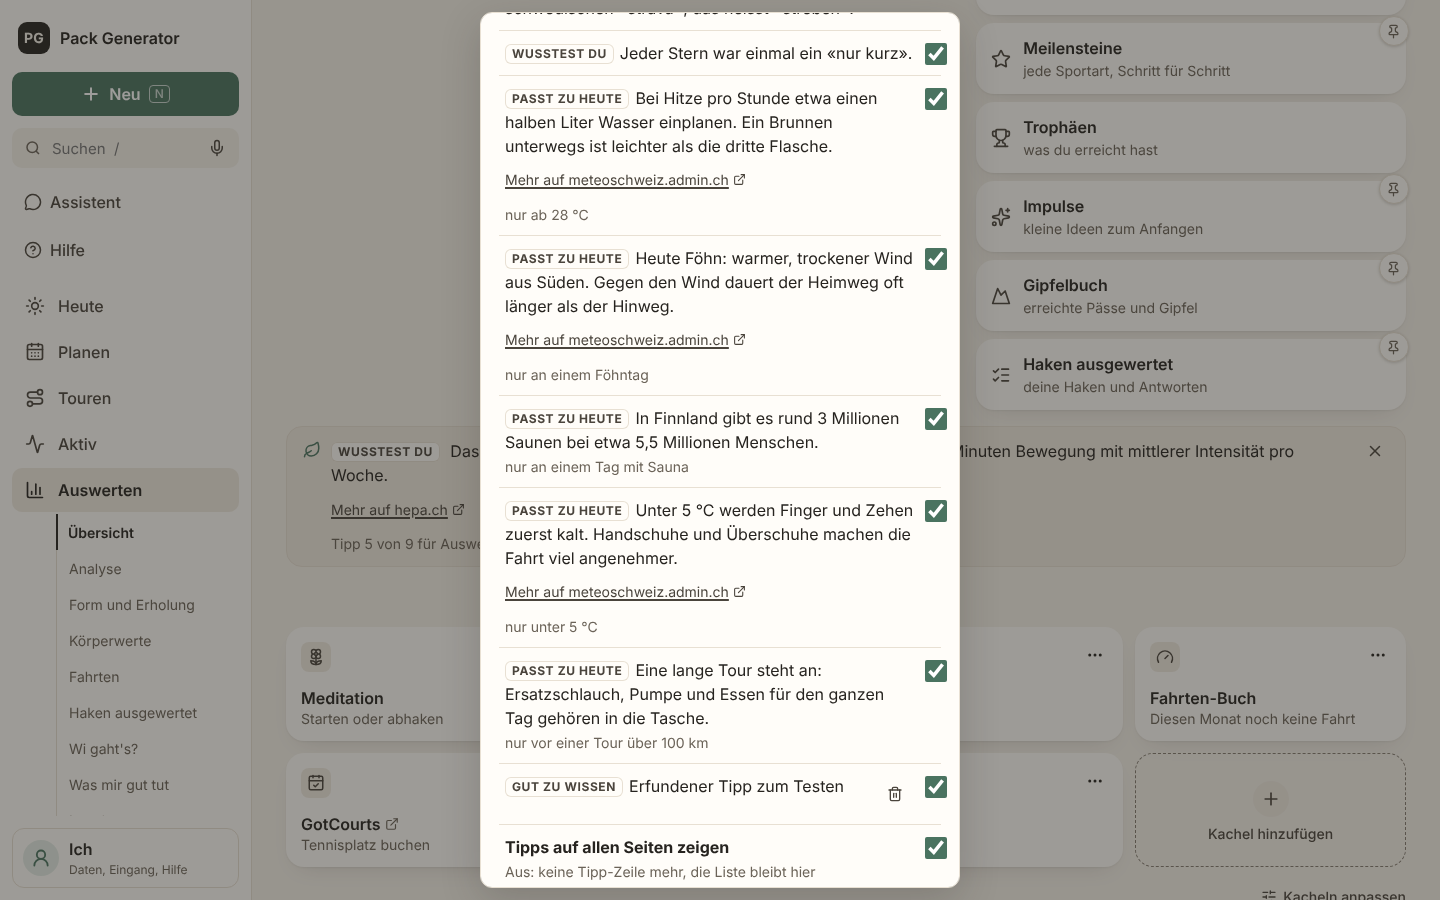
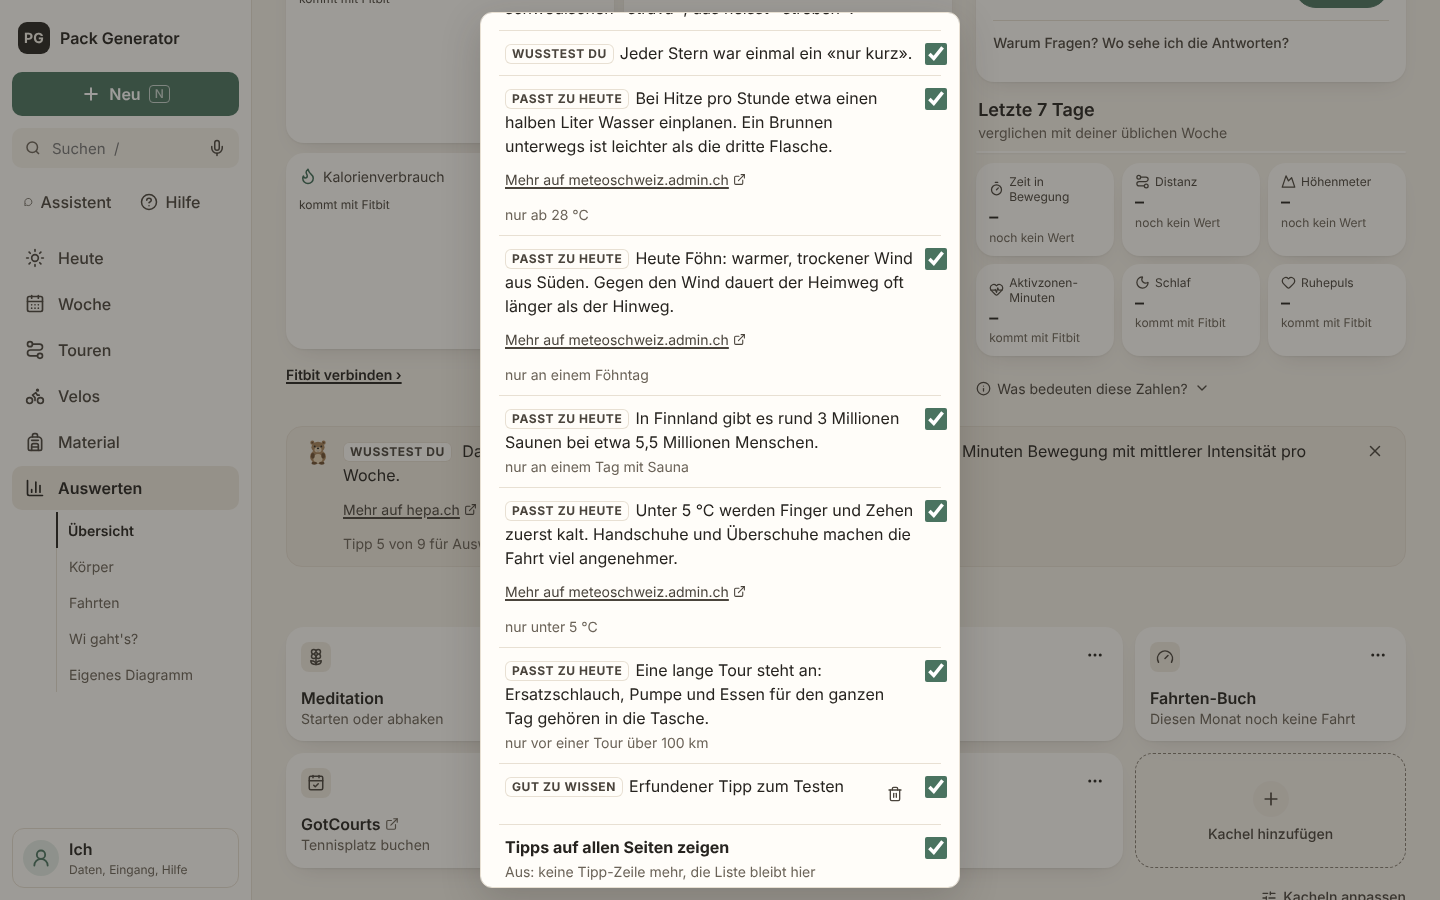
Hilfen 3b: Tipp-Zeile unter den Seitentiteln standardmässig aus, Schalter in Eigene Werte
Claude-Session: https://claude.ai/code/session_015AMNJ9eVfQsamTjq9WtRk8

diff --git a/src/lib/news/tipp-zeile-aus.js b/src/lib/news/tipp-zeile-aus.js
@@ -1,0 +1,24 @@
+// «Hilfen neu» 3b (Noah 22.11.2026 «1a 2a»): the tip line «Good to know» no longer stands under the page titles
+export default {
+  title: 'No tip line under the page titles',
+  lead: 'The pages start with their content. The tips are still there, at the end of a page and in «Tips for this page».',
+  points: [
+    { text: 'The tip line under the page titles is off; switch it on in Own values if you like it', go: { href: '#/me/werte', steps: [{ sel: '[data-own-line]' }], where: 'Me › Own values › Suggestions: «Tip line under the page title».' } },
+  ],
+  small: [],
+  test: [
+    'Open Me: the page starts with its content, no tip line under the title.',
+    'Open Me › Own values and switch on «Tip line under the page title»: the tip is back under the title.',
+    'Switch it off again: at the end of the page «Tips for this page ›» still opens the tips.',
+  ],
+  since: [],
+  de: {
+    'No tip line under the page titles': 'Keine Tipp-Zeile unter den Seitentiteln',
+    'The pages start with their content. The tips are still there, at the end of a page and in «Tips for this page».': 'Die Seiten beginnen mit ihrem Inhalt. Die Tipps gibt es weiter: am Seitenende und unter «Tipps für diese Seite».',
+    'The tip line under the page titles is off; switch it on in Own values if you like it': 'Die Tipp-Zeile unter den Seitentiteln ist aus; schalte sie unter «Eigene Werte» ein, wenn du sie magst',
+    'Me › Own values › Suggestions: «Tip line under the page title».': 'Ich › Eigene Werte › Vorschläge: «Tipp-Zeile unter dem Seitentitel».',
+    'Open Me: the page starts with its content, no tip line under the title.': 'Öffne Ich: die Seite beginnt mit ihrem Inhalt, keine Tipp-Zeile unter dem Titel.',
+    'Open Me › Own values and switch on «Tip line under the page title»: the tip is back under the title.': 'Öffne Ich › Eigene Werte und schalte «Tipp-Zeile unter dem Seitentitel» ein: der Tipp steht wieder unter dem Titel.',
+    'Switch it off again: at the end of the page «Tips for this page ›» still opens the tips.': 'Schalte sie wieder aus: am Seitenende öffnet «Tipps für diese Seite ›» weiter die Tipps.',
+  },
+};

diff --git a/src/pages/OwnValues.svelte b/src/pages/OwnValues.svelte
@@ -23,7 +23,7 @@
   import { sortBikes } from '../lib/bikes.js';
   import { localDay } from '../lib/localday.js';
   import { pageInfo } from '../lib/pageinfo/store.svelte.js';
-  import { setTipsOn, setKnowOn } from '../lib/pageinfo.js';
+  import { setTipsOn, setLineOn, setKnowOn } from '../lib/pageinfo.js';
   import VeloHead from '../lib/bikes/VeloHead.svelte';
   import { t, tn, num } from '../lib/i18n.svelte.js';
   import { Minus, Plus, Undo2, ChevronRight, Package, Bike, Database, Lightbulb, Wrench, Info, Activity, Pencil, BellRing, RotateCcw } from '@lucide/svelte';
@@ -170,7 +170,13 @@
       <ul class="ich-list">
         <li class="ew-row">
           <div class="ew-top">
-            <span class="ich-m"><b id="ew-tips">{t('Tips on all pages')}</b><small>{t('One tip a day under the page title. Off: no tip line any more.')}</small></span>
+            <span class="ich-m"><b id="ew-line">{t('Tip line under the page title')}</b><small>{t('One tip a day under the title of a page. Off: the tips stay in «Tips for this page» at the page end.')}</small></span>
+            <label class="ew-sw"><input type="checkbox" role="switch" data-own-line aria-labelledby="ew-line" checked={pi.info.lineOn} onchange={(e) => ((on) => pi.save((v) => setLineOn(v, on)))(e.currentTarget.checked)} /></label>
+          </div>
+        </li>
+        <li class="ew-row">
+          <div class="ew-top">
+            <span class="ich-m"><b id="ew-tips">{t('Tips on all pages')}</b><small>{t('Off: no tips at all, also not in «Tips for this page».')}</small></span>
             <label class="ew-sw"><input type="checkbox" role="switch" data-own-tips aria-labelledby="ew-tips" checked={pi.info.tipsOn} onchange={(e) => ((on) => pi.save((v) => setTipsOn(v, on)))(e.currentTarget.checked)} /></label>
           </div>
         </li>

diff --git a/tests/pageinfo.test.js b/tests/pageinfo.test.js
@@ -1,5 +1,5 @@
 import { describe, it, expect } from 'vitest';
-import { PAGES, TODAY_TIPS, contextOf, tripWxOn, farOf, setKnowOn, infoOf, allTips, tipOfDay, tipPlace, canRows, setTipsOn, setTip, hideToday, addTip, removeTip, setCan, canShown, tipLink, examplesOf, exampleNote } from '../src/lib/pageinfo.js';
+import { PAGES, TODAY_TIPS, contextOf, tripWxOn, farOf, setKnowOn, infoOf, allTips, tipOfDay, tipPlace, canRows, setTipsOn, setLineOn, setTip, hideToday, addTip, removeTip, setCan, canShown, tipLink, examplesOf, exampleNote } from '../src/lib/pageinfo.js';
 import DE from '../src/lib/i18n/de/index.js';
 
 // «Inhalte Flow» IF1–IF3 (Noah 14.10.2026, mockups approved 04:32): tip of the day and fold; the tiles «Next» are SK (sk tests).
@@ -43,8 +43,15 @@ describe('the tip of the day', () => {
     expect(allTips(removeTip(i, 'aktiv', own.id), 'aktiv').some((x) => x.own)).toBe(false);
   });
   it('a broken stored value falls back to the defaults', () => {
-    expect(infoOf('x')).toEqual({ tipsOn: true, knowOn: true, off: [], own: {}, gone: {}, canOff: {}, hintOff: {}, hintSeen: {} });
+    expect(infoOf('x')).toEqual({ tipsOn: true, lineOn: false, knowOn: true, off: [], own: {}, gone: {}, canOff: {}, hintOff: {}, hintSeen: {} });
     expect(tipOfDay({ off: 'no', own: [] }, 'aktiv', '2026-10-14')).toBeTruthy();
+  });
+  // Hilfen 3b (Noah 22.11.2026 «1a»): the tip line under the page titles is off until it is switched on
+  it('the tip line under the page titles is off by default and can be switched on and off', () => {
+    expect(infoOf(undefined).lineOn).toBe(false);
+    expect(infoOf(setLineOn(undefined, true)).lineOn).toBe(true);
+    expect(infoOf(setLineOn({ lineOn: true }, false)).lineOn).toBe(false);
+    expect(infoOf({ lineOn: 'x' }).lineOn).toBe(false);
   });
 });
 

diff --git a/tests/e2e/tipp-zeile-aus.spec.js b/tests/e2e/tipp-zeile-aus.spec.js
@@ -1,0 +1,41 @@
+// Hilfen 3b (Noah 22.11.2026 «1a»): the tip line «Gut zu wissen» under the page titles is off by default; the tips stay
+// at the end of the page («Tipps für diese Seite»); Ich › Eigene Werte has the switch «Tipp-Zeile unter dem Seitentitel».
+// German UI, the clock fixed in Europe/Zurich, no network, an empty app (fictional data only).
+import { test, expect } from './clock.js';
+import DE from '../../src/lib/i18n/de/index.js';
+import { ready } from './settle.js';
+
+const T = (en) => DE[en] ?? en.replace(/\|[a-z]+$/, '');
+
+test.use({ cardsOpen: false }); // the app as it is: no test switch for the tip line
+
+test('the tip line is off by default, the switch in Eigene Werte brings it back', async ({ page, context }) => {
+  await context.route(/^https?:\/\/(?!localhost[:/])/, (route) => route.abort());
+  await context.addInitScript(() => localStorage.setItem('lang', 'de'));
+  const errors = [];
+  page.on('pageerror', (e) => errors.push(e.message));
+  await page.goto('./#/me');
+  await ready(page);
+  const line = page.locator('main [data-tip]');
+  await expect(line).toHaveCount(0);
+
+  await page.goto('./#/me/werte');
+  await ready(page);
+  const sw = page.locator('[data-own-line]');
+  await expect(sw).not.toBeChecked();
+  await sw.check();
+
+  await page.goto('./#/me');
+  await ready(page);
+  await expect(line).toBeVisible();
+
+  await page.goto('./#/me/werte');
+  await ready(page);
+  await page.locator('[data-own-line]').uncheck();
+  await page.goto('./#/me');
+  await ready(page);
+  await expect(line).toHaveCount(0);
+  // the tips are still one tap away at the end of the page
+  await expect(page.getByRole('button', { name: T('Tips for this page ›') })).toBeVisible();
+  expect(errors).toEqual([]);
+});

diff --git a/src/lib/pageinfo.js b/src/lib/pageinfo.js
@@ -284,6 +284,9 @@ export function infoOf(v) {
   const obj = (x) => (x && typeof x === 'object' && !Array.isArray(x) ? x : {});
   return {
     tipsOn: o.tipsOn !== false,
+    // Hilfen 3b (Noah 22.11.2026 «1a»): the tip line under the page titles is off until the user switches it on
+    // (tests set globalThis.__pgTipLines, like __pgCardsOpen, so the older specs keep looking at the line)
+    lineOn: typeof o.lineOn === 'boolean' ? o.lineOn : globalThis.__pgTipLines === true,
     knowOn: o.knowOn !== false,
     off: Array.isArray(o.off) ? o.off.filter((x) => typeof x === 'string') : [],
     own: obj(o.own),
@@ -411,6 +414,8 @@ export const canRows = (page, base = '') => list(PAGES[page]?.can).map((r) => ({
 
 /* ---------- changes (each returns the new stored value) ---------- */
 export const setTipsOn = (info, on) => ({ ...infoOf(info), tipsOn: !!on });
+/** Hilfen 3b: the tip line under the page titles (default off; the tips stay in «Tips for this page» and the «?» window). */
+export const setLineOn = (info, on) => ({ ...infoOf(info), lineOn: !!on });
 /** WD1: «Only useful tips» (false) or «Also knowledge and fun» (true), for all pages. */
 export const setKnowOn = (info, on) => ({ ...infoOf(info), knowOn: !!on });
 export function setTip(info, id, on) {

diff --git a/src/lib/pageinfo/switchtips.js b/src/lib/pageinfo/switchtips.js
@@ -4,14 +4,14 @@
  * «Tipps einblenden» on again. → { text, undo }: undo puts back exactly what was stored before.
  */
 import { db } from '../db.js';
-import { PAGEINFO_KEY, setTipsOn } from '../pageinfo.js';
+import { PAGEINFO_KEY, setTipsOn, setLineOn } from '../pageinfo.js';
 import { t } from '../i18n.svelte.js';
 
 const plain = (x) => (x == null ? x : JSON.parse(JSON.stringify(x)));
 
 export async function switchTips(on) {
   const before = plain((await db.settings.get(PAGEINFO_KEY))?.value);
-  await db.settings.put({ key: PAGEINFO_KEY, value: setTipsOn(before, on) });
+  await db.settings.put({ key: PAGEINFO_KEY, value: setLineOn(setTipsOn(before, on), on) }); // Hilfen 3b: «show tips» also puts the tip line (off by default) back
   return {
     text: on ? t('«Good to know» is back on the pages.') : t('«Good to know» hidden on all pages. Back: search «show tips».'),
     undo: () => (before === undefined ? db.settings.delete(PAGEINFO_KEY) : db.settings.put({ key: PAGEINFO_KEY, value: before })),

diff --git a/src/lib/i18n/de/eigenewerte.js b/src/lib/i18n/de/eigenewerte.js
@@ -15,7 +15,9 @@ export default {
   '{km} km': '{km} km',
   '{n} °C': '{n} °C',
   'Tips on all pages': 'Tipps auf allen Seiten',
-  'One tip a day under the page title. Off: no tip line any more.': 'Ein Tipp pro Tag unter dem Seitentitel. Aus: keine Tipp-Zeile mehr.',
+  'Tip line under the page title': 'Tipp-Zeile unter dem Seitentitel',
+  'One tip a day under the title of a page. Off: the tips stay in «Tips for this page» at the page end.': 'Ein Tipp pro Tag unter dem Titel einer Seite. Aus: die Tipps stehen weiter unter «Tipps für diese Seite» am Seitenende.',
+  'Off: no tips at all, also not in «Tips for this page».': 'Aus: gar keine Tipps, auch nicht unter «Tipps für diese Seite».',
   'Off: only useful tips, no «Did you know».': 'Aus: nur nützliche Tipps, kein «Wusstest du».',
   'Ideas for activities': 'Ideen für Aktivitäten',
   'Hide single ideas under Aktiv › Activity': 'Einzelne Ideen unter Aktiv › Aktivität ausblenden',

diff --git a/tests/e2e/clock.js b/tests/e2e/clock.js
@@ -89,6 +89,8 @@ export async function shiftContext(context) {
 /** Etappe 2, 1a: on a phone the cards «Belongs to …» / «All here» start as one line; a spec that does not look at them finds them open. */
 function cardsOpen() {
   globalThis.__pgCardsOpen = true;
+  // Hilfen 3b: the tip line under the page titles is off in the app; a spec that looks at it finds it on (test.use({ cardsOpen: false }) shows the app as it is)
+  globalThis.__pgTipLines = true;
 }
 
 /** Puts the real Date back (before Playwright's clock goes in, so its clock is the only one). */

diff --git a/src/lib/pageinfo/PageMore.svelte b/src/lib/pageinfo/PageMore.svelte
@@ -22,7 +22,8 @@
   const pi = pageInfo();
   $effect(() => sayHere({ can: page, name, base }));
   const today = localDay();
-  const noTip = $derived(pi.loaded && !tipOfDay(pi.info, page, today) && PAGES[page]?.tips?.length);
+  // Hilfen 3b: with the tip line off (the default) the link at the page end is the way to the tips
+  const noTip = $derived(pi.loaded && (!pi.info.lineOn || !tipOfDay(pi.info, page, today)) && PAGES[page]?.tips?.length);
 
   let tipsOpen = $state(false);
   const examples = $derived(examplesOf(page));

diff --git a/tests/e2e/pageinfo.spec.js b/tests/e2e/pageinfo.spec.js
@@ -17,6 +17,7 @@ const D0 = `${TODAY}T09:00:00+02:00`;
 async function open(page, context, hash) {
   await context.route(/^https?:\/\/(?!localhost[:/])/, (route) => route.abort());
   await context.addInitScript(() => localStorage.setItem('lang', 'de'));
+  await context.addInitScript(() => (globalThis.__pgTipLines = true)); // Hilfen 3b: the tip line is off in the app
   await page.clock.install({ time: new Date(D0) });
   const errors = [];
   page.on('pageerror', (e) => errors.push(e.message));

diff --git a/src/lib/pageinfo/TipLine.svelte b/src/lib/pageinfo/TipLine.svelte
@@ -29,7 +29,7 @@
   let open = $state(false);
 </script>
 
-{#if tip}
+{#if tip && pi.info.lineOn}
   <div class="card tipl {tip.kind}" data-tip={tip.id} role="note">
     {#if ops.murmeltier}<span class="mmt"><Murmeltier size={30} /></span>{:else}<Leaf size={18} aria-hidden="true" />{/if}
     <p>

diff --git a/docs/releases/tipp-zeile-aus.md b/docs/releases/tipp-zeile-aus.md
@@ -1,0 +1,29 @@
+# Keine Tipp-Zeile unter den Seitentiteln
+
+PR #<Nummer> · 22.11.2026 · «Hilfen neu» Punkt 3b · Auftrag: Noah «1a 2a» (22.11.2026, Thread «Neue Ordnung»)
+
+## Was ist neu
+- Die Zeile «Gut zu wissen» (ein Tipp pro Tag) unter den Seitentiteln ist standardmässig aus. Die Seiten beginnen mit ihrem Inhalt.
+- Ich › Eigene Werte › Vorschläge: neuer Schalter «Tipp-Zeile unter dem Seitentitel». Wer die Zeile mag, schaltet sie ein; der Schalter «Tipps auf allen Seiten» schaltet weiter alle Tipps ab.
+- «Tipps einblenden» in der Suche schaltet die Zeile wieder ein, «Gut zu wissen ausblenden» schaltet sie aus (mit Rückgängig, wie bisher).
+
+## Was fällt weg oder rutscht tiefer
+- Die Tipp-Zeile unter dem Titel von rund 20 Seiten (Packen, Velopflege, Rückblick, Ich, Touren und weitere): sie ist aus. Die Tipps stehen weiter am Seitenende unter «Tipps für diese Seite ›» (öffnet alle Tipps der Seite) und im «?»-Fenster.
+- Auch das Murmeltier neben dem Tipp ist damit nicht mehr zu sehen (es erscheint weiter in leeren Ansichten); wer es sehen will, schaltet die Tipp-Zeile ein.
+- Vorschläge und Warnungen im Inhalt («Freie Zeit und gutes Wetter», «Diese Woche ist deutlich mehr …», «Verpasst? Verschieben») bleiben, Noah «2a». Heute bleibt unverändert.
+
+## Selbst entschieden
+- Kein neues Datenformat: der Schalter ist ein Feld `lineOn` in der bestehenden Einstellung `pageinfo` (Backup und Abgleich wie bisher). Wer die Tipps schon ausgeschaltet hatte, bleibt ausgeschaltet.
+- Wer die Tipp-Zeile bisher eingeschaltet «erlebt» hat, ohne etwas gewählt zu haben, sieht sie nicht mehr; ein Schalter bringt sie zurück (alles ist änderbar).
+- Die Tests schalten die Zeile mit `globalThis.__pgTipLines` ein (wie `__pgCardsOpen`), damit die älteren Spezifikationen weiter die Zeile prüfen; `tipp-zeile-aus.spec.js` prüft den echten Standard.
+
+## Entscheide (eigene Datei `docs/decisions/tipp-zeile-aus.md`)
+- 22.11.2026: Tipp-Zeilen unter den Seitentiteln aus, Vorschläge im Inhalt bleiben.
+
+## Stand im Plan (roadmap.md / vorhaben.md)
+- «Hilfen neu»: 3b erledigt; 4a und 5a folgen als eigene PRs.
+
+## Prüfschritte (nach dem Merge auf der echten Seite)
+1. Ich öffnen: die Seite beginnt mit ihrem Inhalt, keine Tipp-Zeile unter dem Titel.
+2. Ich › Eigene Werte › «Tipp-Zeile unter dem Seitentitel» einschalten: der Tipp steht wieder unter dem Titel.
+3. Wieder ausschalten: am Seitenende öffnet «Tipps für diese Seite ›» die Tipps.
